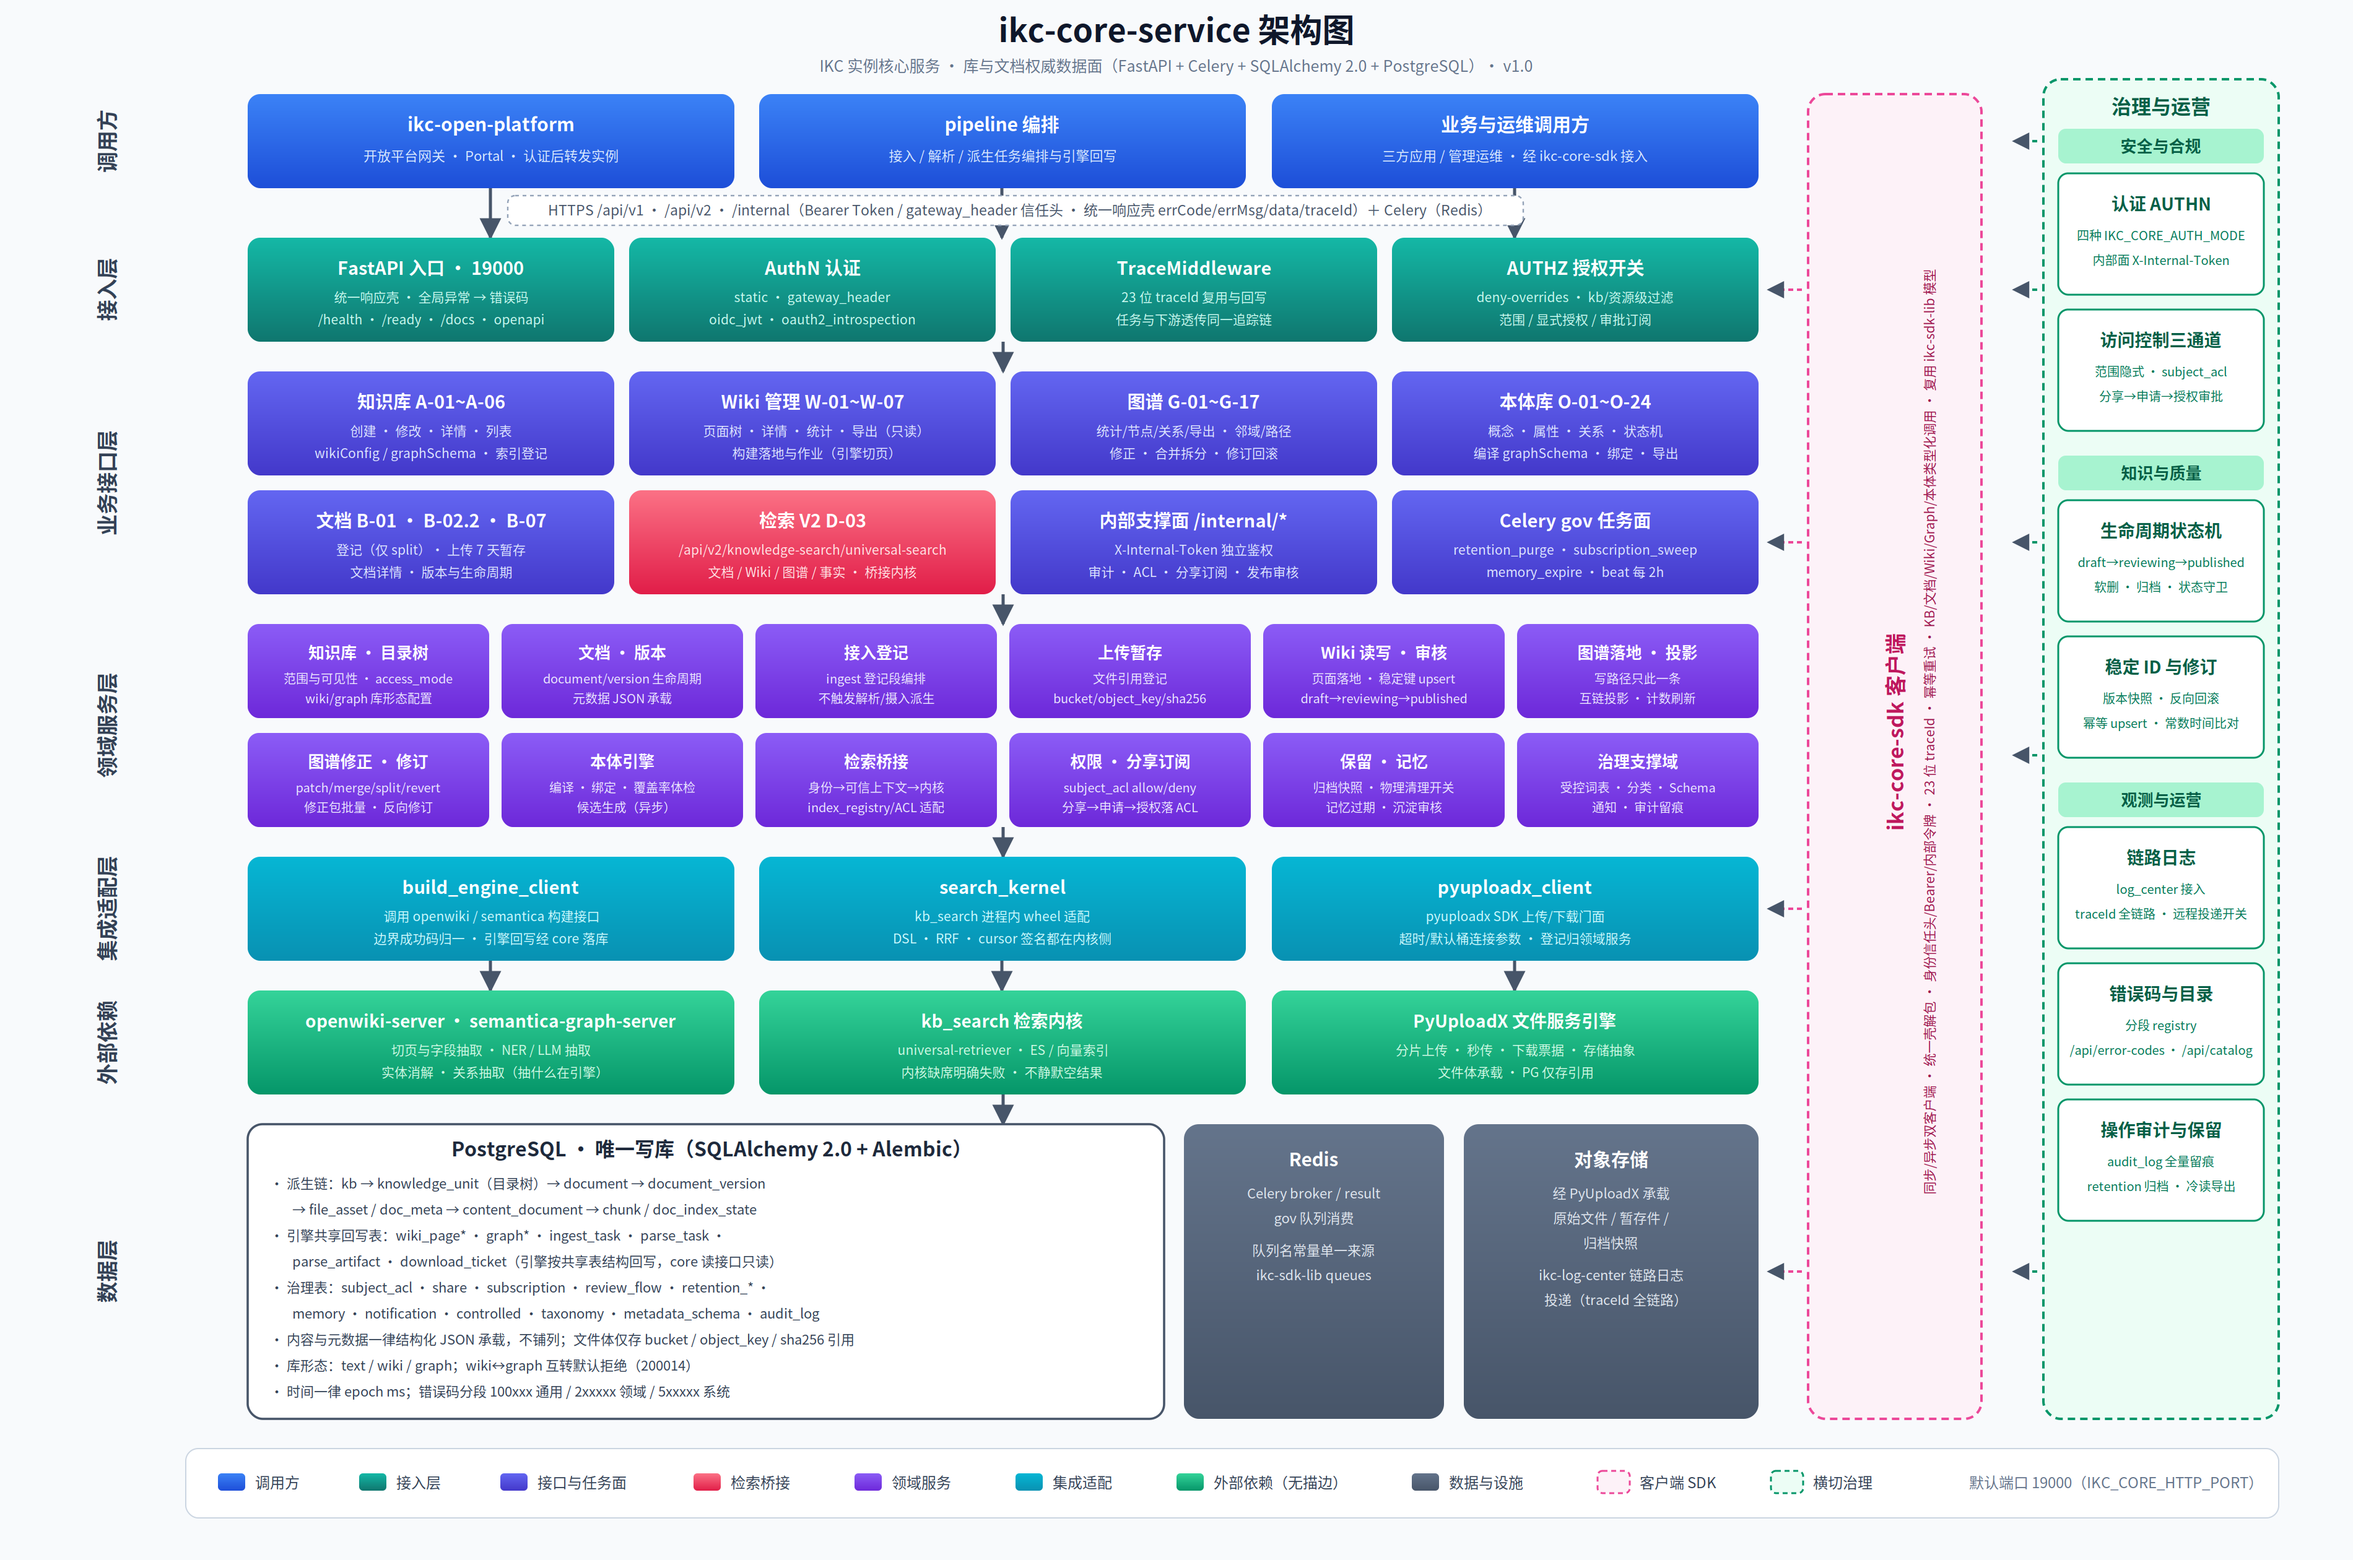
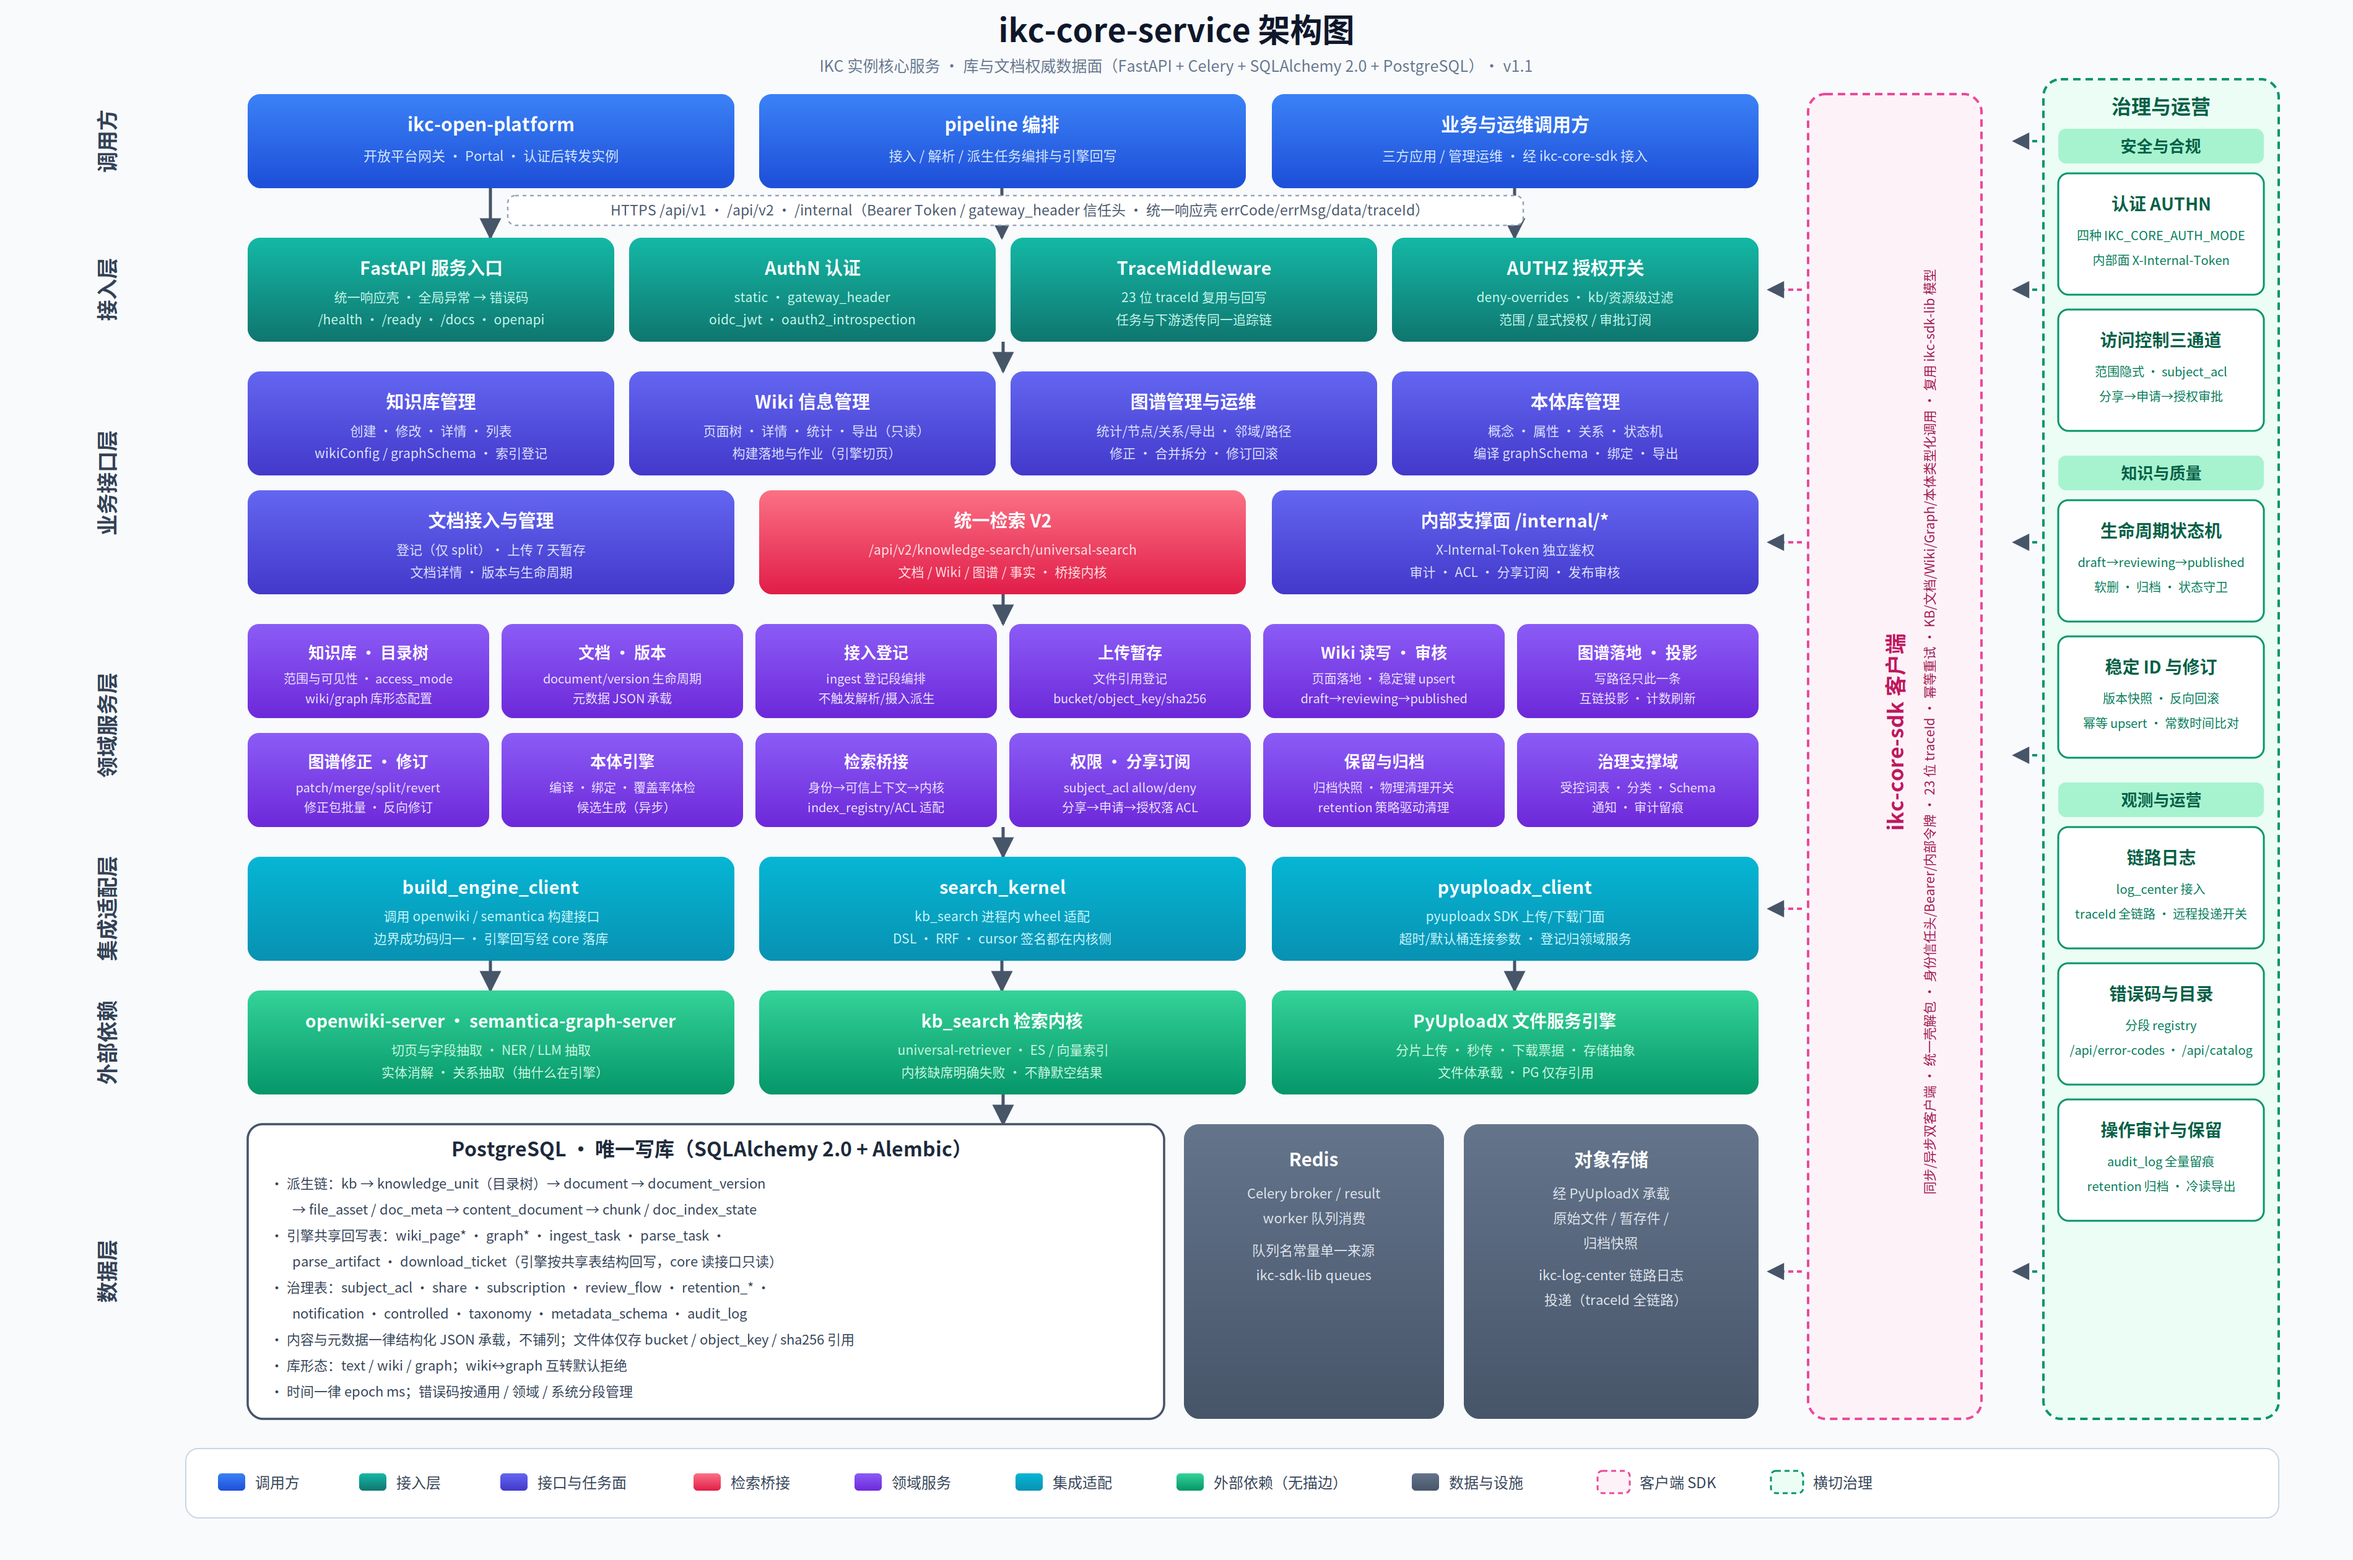
docs: ikc-core-service 架构图 v1.1——去编号端口、删 gov 任务面与记忆呈现

diff --git a/docs/worklog.md b/docs/worklog.md
@@ -1437,3 +1437,4 @@
 ### 任务：生成 ikc-core-service 架构图 v1.0（2026-10-17）
 
 - 依据相邻仓 `/home/sharkyai/ikc-core-service`（README / catalog.py / routers / domain services / integrations / 上游调用契约_2026-09-09 实证）新建 docs/images/ikc-core-service架构图_v1.0.svg/png（1900×1260，沿用架构总图冷色渐变与 200–1420 栅格、右侧双竖条规范）：调用方（ikc-open-platform / pipeline 编排 / 业务与运维调用方，gBlue）→ 接入层（FastAPI 入口·19000 / AuthN 四模式 / TraceMiddleware / AUTHZ 开关，gTeal）→ 业务接口层（知识库 A-01~06 · Wiki W-01~07 · 图谱 G-01~17 · 本体 O-01~24 / 文档 B · 检索 V2 D-03（gRose）· /internal 支撑面 · Celery gov 任务面，gIndigo）→ 领域服务层（十二框：kb/unit · 文档版本 · 接入登记 · 上传暂存 · Wiki 读写审核 · 图谱落地投影 · 修正修订 · 本体引擎 · 检索桥接 · 权限分享订阅 · 保留记忆 · 治理支撑域，gViolet）→ 集成适配层（build_engine_client / search_kernel / pyuploadx_client，gCyan）→ 外部依赖（openwiki·semantica / kb_search 内核 / PyUploadX，gEmerald 无描边）→ 数据层（PostgreSQL 唯一写库派生链+回写表+治理表 · Redis · 对象存储，gSlate）；右侧粉虚线条 ikc-core-sdk 客户端 + 绿虚线条治理与运营（安全与合规/知识与质量/观测与运营三组七框）；协议标注含 /api/v1·/api/v2·/internal 与信任头/统一响应壳/Celery(Redis)；浏览器实测核验后修复 PG 三行长注溢出（拆行+框高扩至 238）、治理卡片贴边（字号降 10）与图例末项贴边；PNG 经临时副本注入 Noto Sans CJK SC 2x 渲染，整图目检无溢出无重叠；仅新增配图，无代码改动，跳过 pytest 与 Claude 只读审查。
+- 续写（同日）：按用户要求出 v1.1（图内版本标识，文件名不变）——全图去除接口编号（A-01~/W-0~/G-~/O-~/B-~/D-03 与 200014、100xxx 等）改职能命名（知识库管理/Wiki 信息管理/图谱管理与运维/本体库管理/文档接入与管理/统一检索 V2）、去除全部端口（FastAPI 入口·19000→FastAPI 服务入口、图例端口行删除）、删除「Celery gov 任务面」框（业务接口层第二行改 3×393 等宽，协议胶囊与 Redis 框 gov 字样同步清理）、去除记忆呈现（领域框「保留·记忆」→「保留与归档」、PG 治理表与竖条 memory 条目删除）；grep 零残留、XML 校验通过、2x 重渲染整图目检无溢出无重叠。
